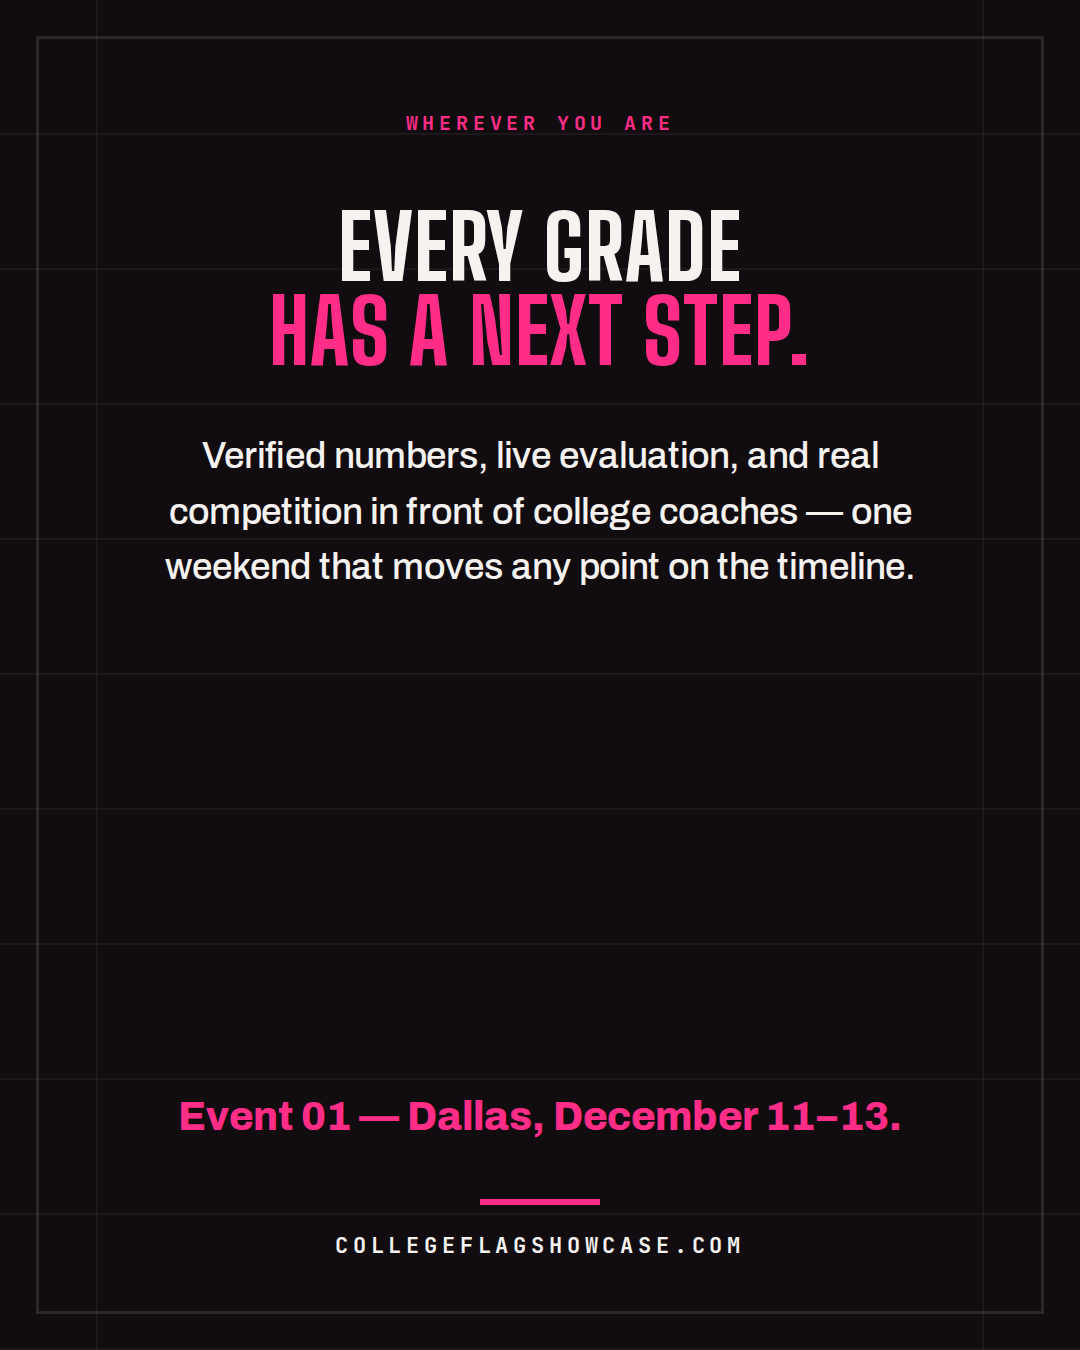
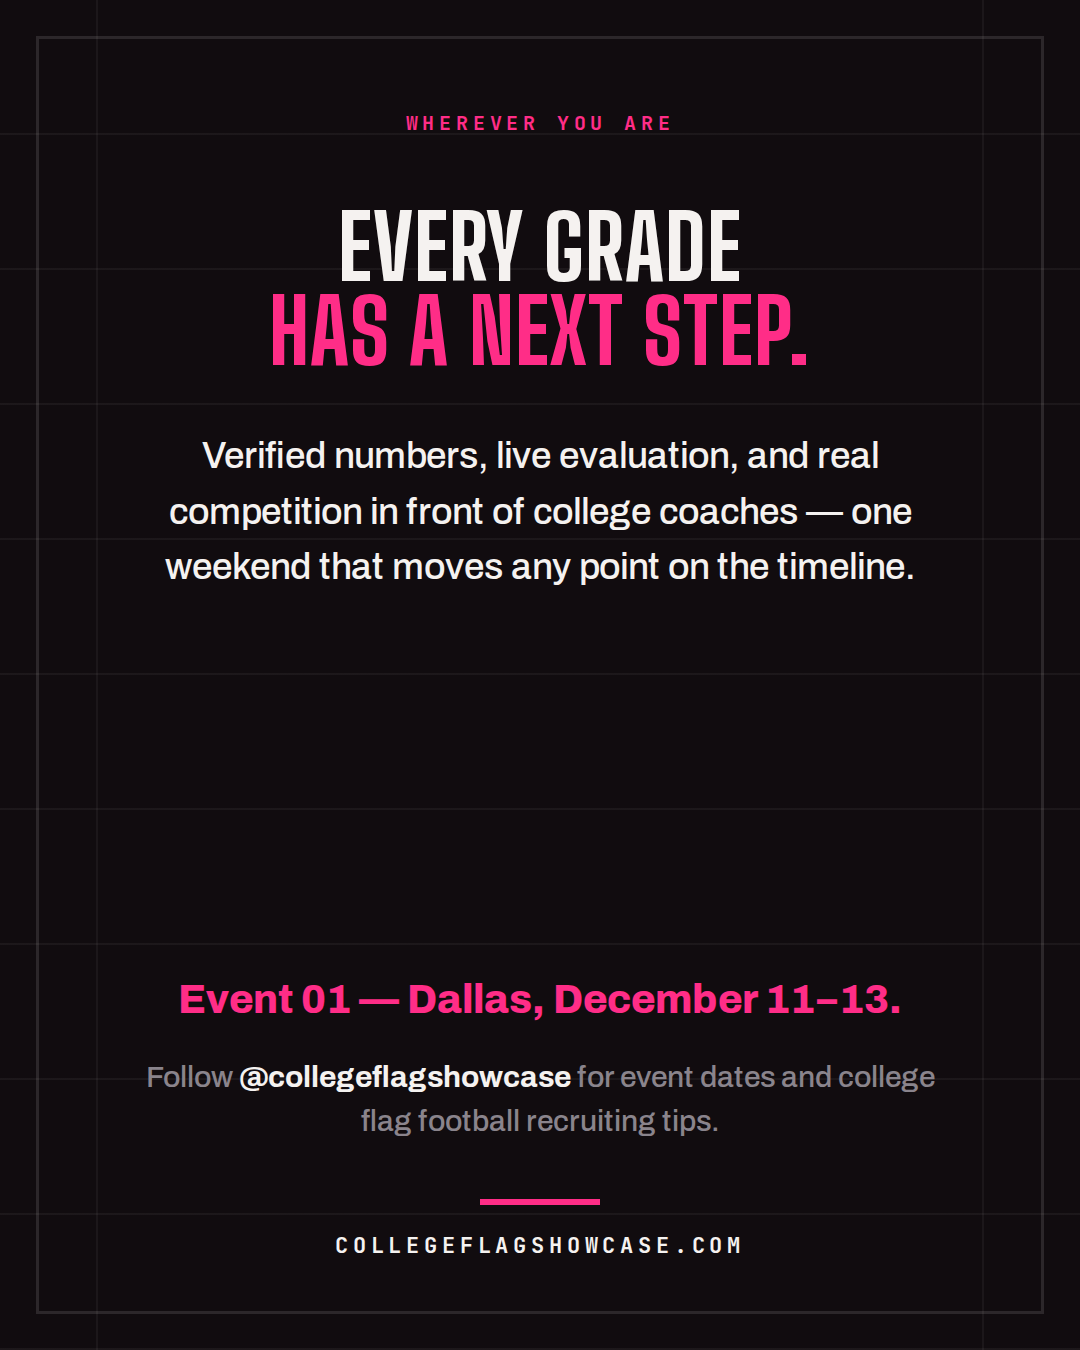
Add follow CTA to timeline carousel closer
Claude-Session: https://claude.ai/code/session_019V32boShoBmRrwWenCPJFc

Changed region(s): [[0.1222, 0.7156, 0.8556, 0.84]]

diff --git a/collateral/ig-carousel-timeline.html b/collateral/ig-carousel-timeline.html
@@ -35,6 +35,8 @@
   .slide-title{margin-top:20px;font-family:var(--display);font-weight:800;text-transform:uppercase;line-height:.95;letter-spacing:.01em;font-size:88px}
   .slide-body{margin-top:56px;font-size:37px;line-height:1.5;font-weight:500;color:var(--chalk);max-width:850px}
   .slide-punch{margin-top:auto;padding-top:40px;font-size:40px;line-height:1.3;font-weight:800;color:var(--red);max-width:860px}
+  .follow{margin-top:30px;font-size:30px;line-height:1.45;font-weight:500;color:var(--steel);max-width:800px}
+  .follow b{color:var(--chalk);font-weight:700}
 
   .swipe{margin-top:auto;font-family:var(--mono);font-size:22px;font-weight:700;letter-spacing:.26em;text-transform:uppercase;color:var(--red)}
   .swipe span{display:inline-block;margin-left:10px;letter-spacing:0}
@@ -143,6 +145,7 @@
     <h2 class="slide-title" style="margin-top:70px">Every grade<br /><span style="color:var(--red)">has a next step.</span></h2>
     <p class="slide-body">Verified numbers, live evaluation, and real competition in front of college coaches &mdash; one weekend that moves any point on the timeline.</p>
     <p class="slide-punch">Event 01 &mdash; Dallas, December 11&ndash;13.</p>
+    <p class="follow">Follow <b>@collegeflagshowcase</b> for event dates and college flag football recruiting tips.</p>
     <div class="rule"></div>
     <p class="foot"><b>collegeflagshowcase.com</b></p>
   </div>
